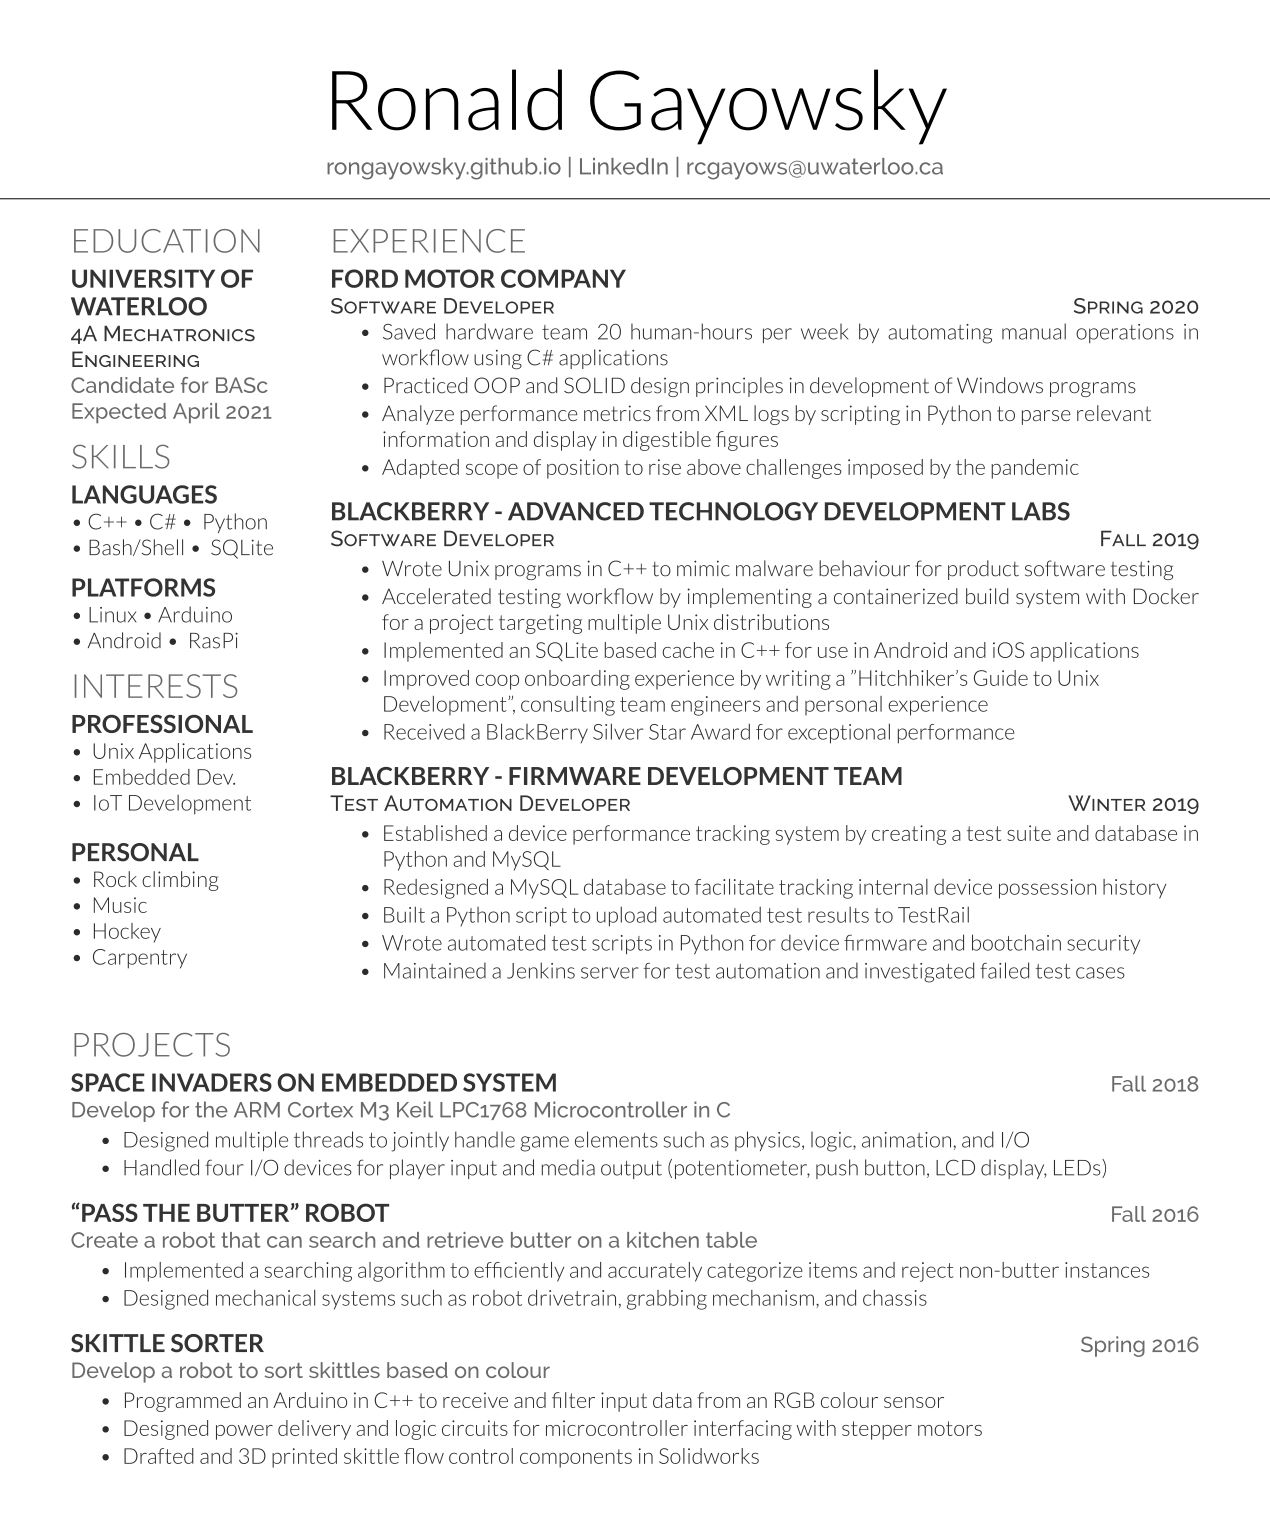
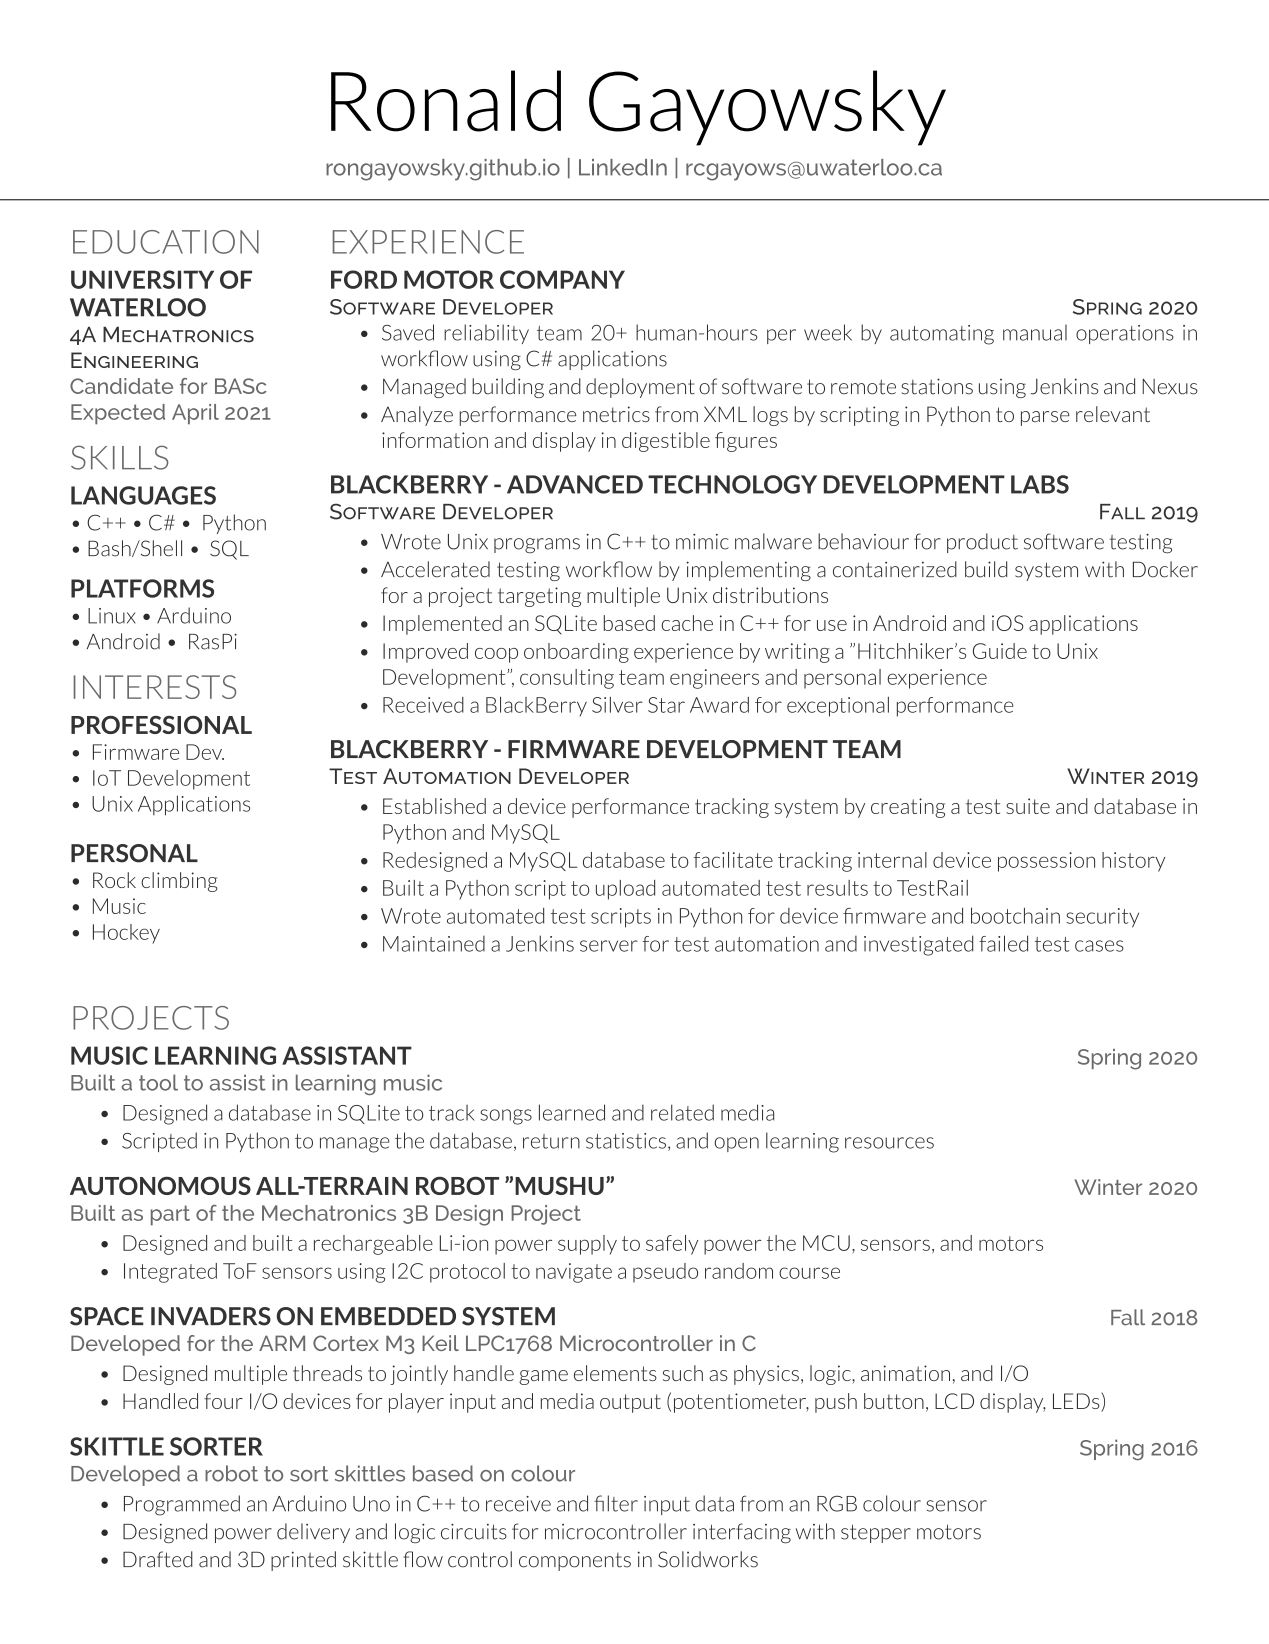
Updated Ford position, added projects
That's all folks

Changed region(s): [[0.0615, 0.0307, 0.9527, 0.9504], [0.8298, 0.4599, 0.9527, 0.4905], [0.8605, 0.7052, 0.9527, 0.7358]]

diff --git a/index.html b/index.html
@@ -107,8 +107,8 @@
     <h3>Ford Motor Company</h3>
     <h5>Software Developer (Spring 2020)</h5>
     <ul>
-        <li>Saved hardware team 20 human-hours per week by automating manual operations in workflow using C# applications</li>
-        <li>Practiced OOP and SOLID design principles in development of Windows programs</li>
+        <li>Saved reliability team 20+ human-hours per week by automating manual operations in workflow using C# applications</li>
+        <li>Managed building and deployment of software to remote stations using Jenkins and Nexus</li>
         <li>Analyze performance metrics from XML logs by scripting in Python to parse relevant information and display in digestible figures</li>
         <li>Adapted scope of position to rise above challenges imposed by the pandemic</li>
     </ul>
@@ -117,7 +117,7 @@
     <h5>Software Developer (Fall 2019)</h5>
     <ul>
         <li>Wrote Unix programs in C++ to mimic malware behaviour for product software testing</li>
-        <li>Accelerated testing workflow by implementing a containerized build system with  Docker for a project targeting multiple Unix distributions</li>
+        <li>Accelerated testing workflow by implementing a containerized build system with Docker for a project targeting multiple Unix distributions</li>
         <li>Implemented an SQLite based cache in C++ for use in Android and iOS applications</li>
         <li>Improved coop onboarding experience by writing a "Hitchhiker's Guide to Unix Development", consulting team engineers and personal experience</li>
         <li>Received a BlackBerry Silver Star Award for exceptional performance</li>
@@ -138,6 +138,20 @@
 <!-- Projects -->
 <div class="container">
 <h2  id="projects">Projects</h2>
+    <h3>Music Learning Assistant</h3>
+    <h5>Built a tool to assist in learning music (Spring 2020)</h5>
+    <ul>
+        <li>Designed a database in SQLite to track songs learned and related media</li>
+        <li>Scripted in Python to manage the database, return statistics, and open learning resources</li>
+    </ul>
+
+    <h3>Autonomous All-Terrain Robot "Mushu"</h3>
+    <h5>Built as part of the Mechatronics 3B Design Project (Winter 2020)</h5>
+    <ul>
+        <li>Designed and built a rechargeable Li-ion power supply to safely power the MCU, sensors, and motors</li>
+        <li>Integrated ToF sensors using I2C protocol to navigate a pseudo random course</li>
+    </ul>
+
     <h3>Space Invaders on an Embedded System</h3>
     <h5>Develop for the ARM Cortex M3 Keil LPC1768 Microcontroller (Fall 2018)</h5>
     <ul>
